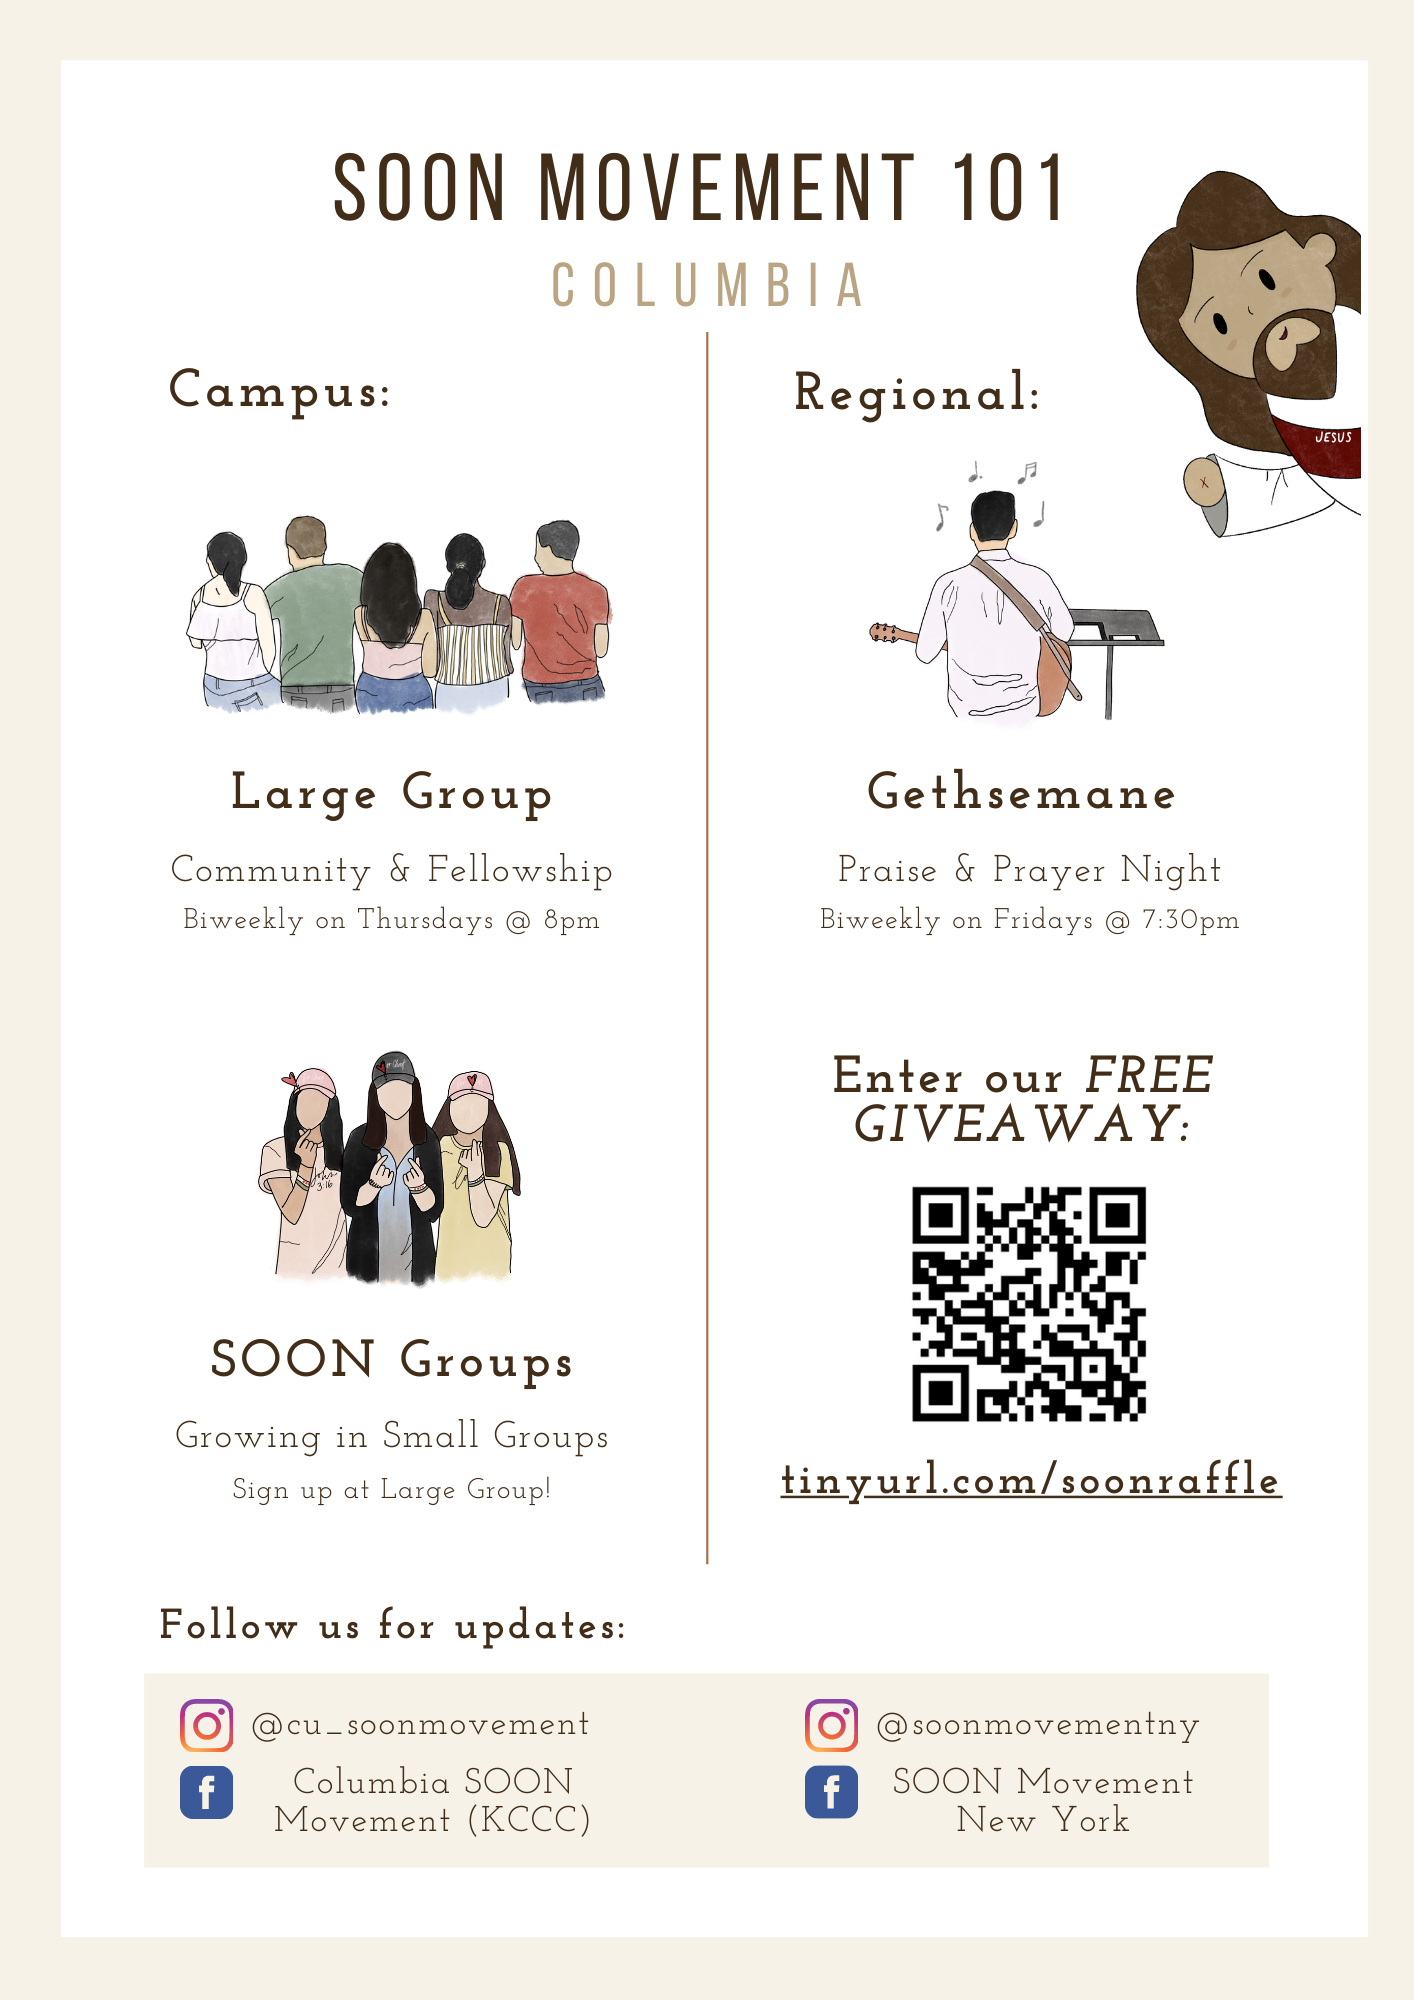
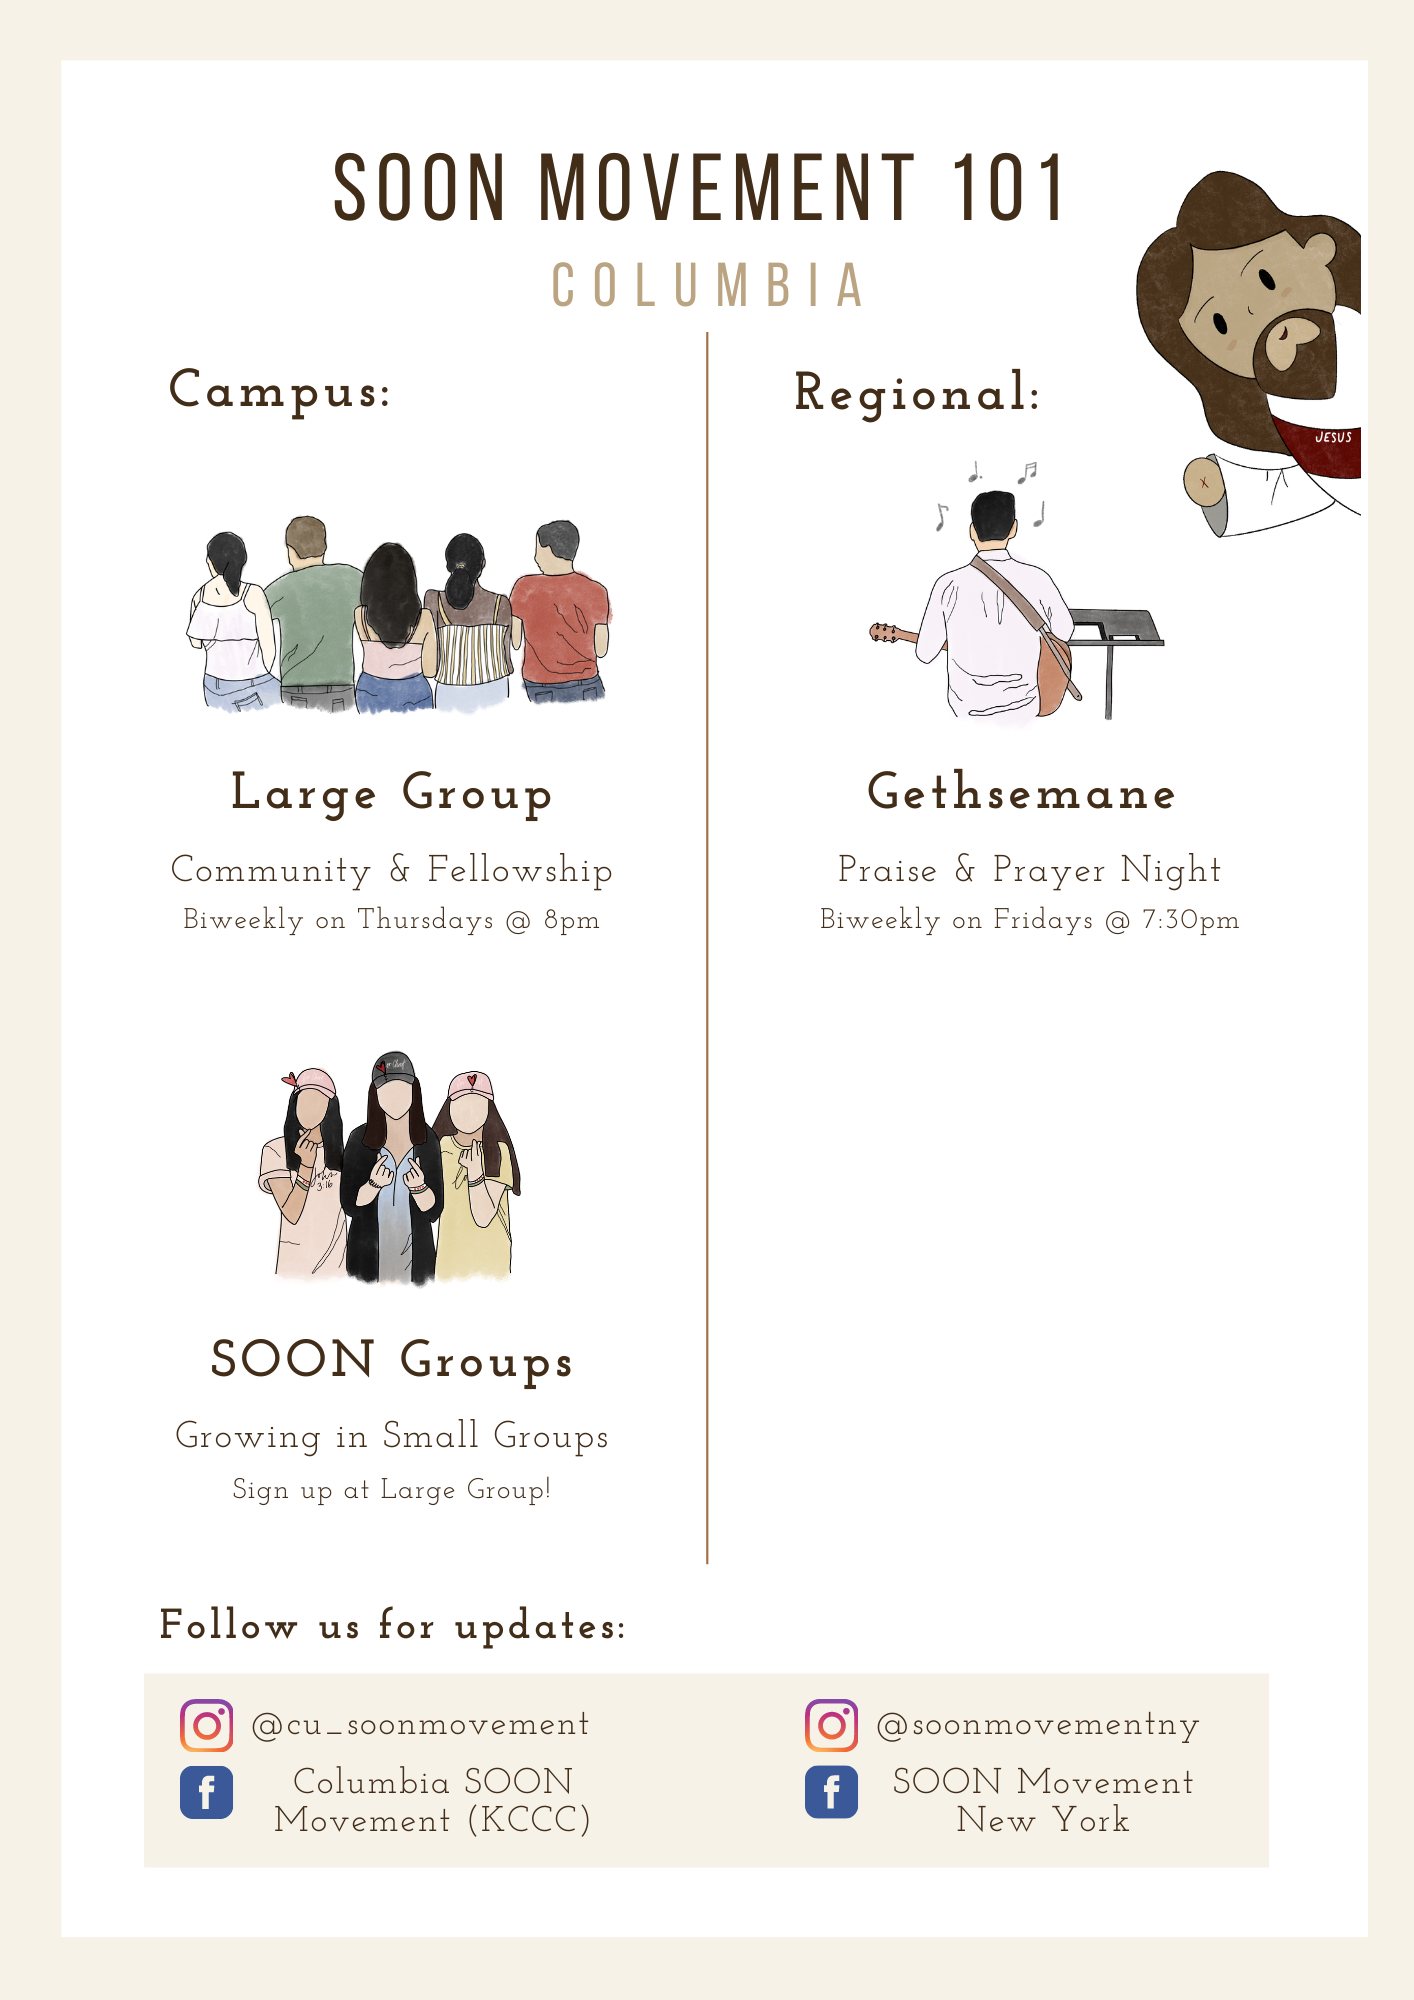
changes in getinvolved page

Changed region(s): [[0.5912, 0.527, 0.9024, 0.775], [0.5601, 0.744, 0.5912, 0.775]]

diff --git a/src/components/GetInvolved.js b/src/components/GetInvolved.js
@@ -18,17 +18,10 @@ class GetInvolved extends React.Component {
         return (
             <Container>
                 <div className={"maxBodyWidth"}>
-                    <div className={"header"}>Get Involved</div>
-                    <div className={"body centered"}>
-                        Thank you for your interest in SOON Movement at Columbia University! We're so excited you're here!<br/><br/><br/>
-                        To learn more about us and have someone reach out to you,
-                        fill out this interest survey and get automatically entered in our giveaway to win a FREE T-SHIRT:
-                        <br/><br/>
-                        <a href={"https://tinyurl.com/soonraffle"} className={"linkClass"}>Fill out Form</a>
-                    </div>
-                    {/*<InterestForm/>*/}
+                    <div className={"header"}>Get Involved</div>  
+                    <InterestForm/>
                     <div id="upcomingImgContainer" className={"whiteSpace"}>
-                        <img id="upcomingImg" src={require('../images/UpcomingEvents.png')} alt={"Upcoming Events"} />
+                        <img id="upcomingImg" src={require('../images/announcements/soon101.png')} alt={"Upcoming Events"} />
                     </div>
                     <div>
                         <div className={"subheader whiteSpace"}>

diff --git a/src/components/styles/GetInvolved.css b/src/components/styles/GetInvolved.css
@@ -4,6 +4,7 @@
 }
 #upcomingImgContainer {
     width: 100%;
+    padding: 50px 0px 20px 0px;
 }
 .centered {
     text-align: center;
